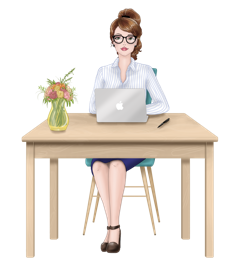
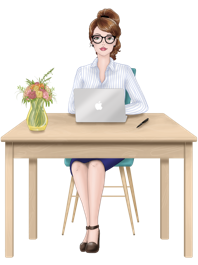
fixed ContactUS page layout

diff --git a/src/routes/contactUs/ContactUs.js b/src/routes/contactUs/ContactUs.js
@@ -55,30 +55,33 @@ class ContactUs extends React.Component {
     return (
       <div className={s.wrapper}>
         <div className={s.container}>
-          <Row type='flex' className={intl.locale === "de-DE" ? s.contentContainer_de : s.contentContainer}>
-            <Col sm={24} md={intl.locale === "de-DE" ? 16 : 12} className={s.titleContainer}>
-              {/*<h1 className={s.header}>{intl.formatMessage(messages.header)}</h1>*/}
-              {
-                intl.locale === "de-DE" &&
-                <div className={s.subtitle}>
-                  Kundenverblüffung leicht gemacht<br/>
-                  Wir unterstützen Sie von A bis Z bei der Betreuung Ihrer Kunden und Partner: Wir bedrucken, verpacken, frankieren und versenden Karten zu unterschiedlichsten Ereignissen auf Bestellung. Auf Wunsch organisieren wir auch ein passendes Geschenk dazu – zum Beispiel einen Gutschein oder einen Wein. Besonders praktisch: Sobald Ihre Kontakte einmal erfasst sind, kümmern wir uns automatisch um Anlässe wie Geburtstage. Dabei informieren wir Sie jeweils über bevorstehende Ereignisse Ihrer Kontakte. Sie entscheiden dann, was in der jeweiligen Situation angebracht ist.<br/><br/>
-                  Kurz: Zumi ist Ihr virtuelle Assistentin, die stets voraus denkt und Ihnen in allen Aspekten der Kundenpflege zur Seite steht.
-                </div>
-              }
-              {
-                intl.locale !== "de-DE" &&
-                <div className={s.subtitle}>
-                  Thank you for your interest in "by Zumi".<br/>
-                  Use the form below to send your comment or questions.
-                </div>
-              }
-            </Col>
-            <Col sm={24} md={intl.locale === "de-DE" ? 8 : 12} className={s.titleContainer}>
-              <div style={{backgroundImage: `url(${contactusImage})`}} className={s.cardImage}/>
-            </Col>
-          </Row>
+          <section className={intl.locale === "de-DE" ? s.contentContainer_de : s.contentContainer}>
+            <Row type='flex' >
+              <Col sm={24} md={intl.locale === "de-DE" ? 16 : 12} className={s.titleContainer}>
+                {/*<h1 className={s.header}>{intl.formatMessage(messages.header)}</h1>*/}
+                {
+                  intl.locale === "de-DE" &&
+                  <div className={s.subtitle}>
+                    Kundenverblüffung leicht gemacht<br/>
+                    Wir unterstützen Sie von A bis Z bei der Betreuung Ihrer Kunden und Partner: Wir bedrucken, verpacken, frankieren und versenden Karten zu unterschiedlichsten Ereignissen auf Bestellung. Auf Wunsch organisieren wir auch ein passendes Geschenk dazu – zum Beispiel einen Gutschein oder einen Wein. Besonders praktisch: Sobald Ihre Kontakte einmal erfasst sind, kümmern wir uns automatisch um Anlässe wie Geburtstage. Dabei informieren wir Sie jeweils über bevorstehende Ereignisse Ihrer Kontakte. Sie entscheiden dann, was in der jeweiligen Situation angebracht ist.<br/><br/>
+                    Kurz: Zumi ist Ihr virtuelle Assistentin, die stets voraus denkt und Ihnen in allen Aspekten der Kundenpflege zur Seite steht.
+                  </div>
+                }
+                {
+                  intl.locale !== "de-DE" &&
+                  <div className={s.subtitle}>
+                    Thank you for your interest in "by Zumi".<br/>
+                    Use the form below to send your comment or questions.
+                  </div>
+                }
+              </Col>
+              <Col sm={24} md={intl.locale === "de-DE" ? 8 : 12} className={s.titleContainer}>
+                <div style={{backgroundImage: `url(${contactusImage})`}} className={s.cardImage}/>
+              </Col>
+            </Row>
+          </section>
           <Form onSubmit={this.handleSubmit} className={s.formContainer}>
+            <h1 className={s.header}>{intl.formatMessage(messages.header)}</h1>
             <Row gutter={40} type='flex'>
               <Col md={12} className={s.contactInput}>
                 <FloatingLabel

diff --git a/src/routes/contactUs/ContactUs.css b/src/routes/contactUs/ContactUs.css
@@ -5,19 +5,30 @@
   padding-top: 36px;
   padding-bottom: 60px;
 }
-
 .container {
+  max-width: var(--max-content-width);
+  margin-right: auto;
+  margin-left: auto;
   display: flex;
-  margin: 0 auto;
   flex-direction: column;
-  justify-content: space-between;
-  align-items: center;
+  width: 100%;
+
+  @media (--md-up) {
+    padding: var(--margin-xl) var(--margin-md);
+    padding-top: 0;
+  }
+  @media (--md-down) {
+    padding: var(--margin-md);
+    padding-top: 0;
+  }
 }
+
 .contentContainer{
-  width: 528px;
+  width:555px;
+  align-self: center;
 }
 .contentContainer_de{
-  width: 720px;
+  width:100%;
 }
 .titleContainer {
   display: flex;
@@ -32,6 +43,7 @@
 .header {
   font-size: 40px;
   font-family: "Adobe Garamond Pro";
+  text-align: center;
 }
 
 .subtitle{
@@ -53,7 +65,8 @@
 }
 
 .formContainer {
-  width: 430px;
+  width: 555px;
+  align-self: center;
 }
 
 .contactInput {
@@ -95,6 +108,7 @@
   background-size: contain;
   background-position: center;
   flex: 1;
-  width: 270px;
-  height: 300px;
+  width: auto;
+  height: 420px;
+  background-position: right;
 }
